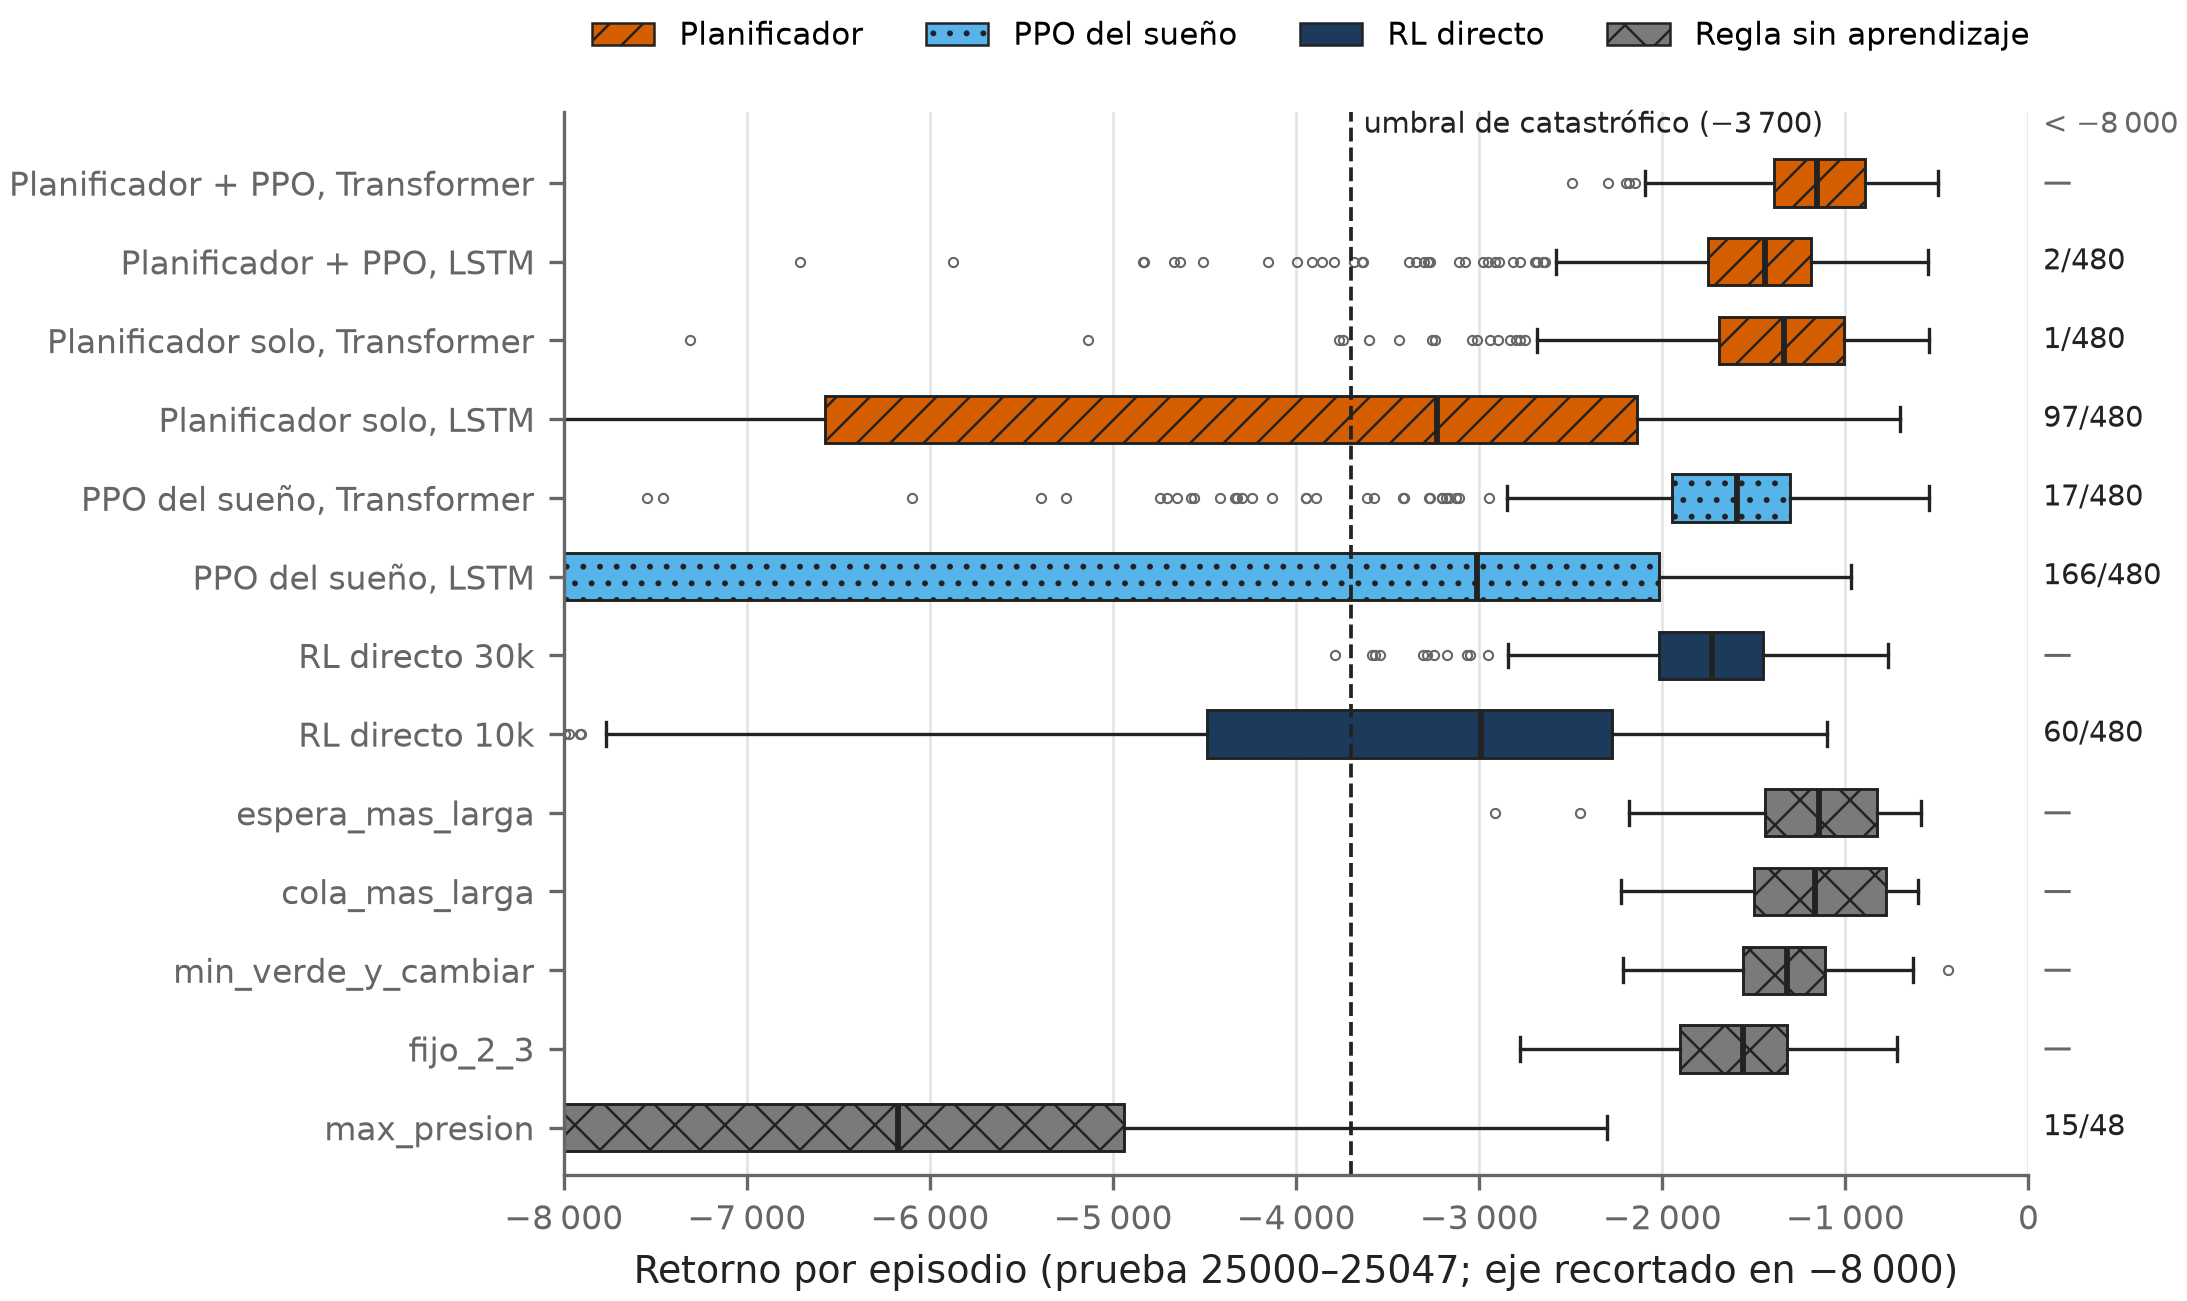
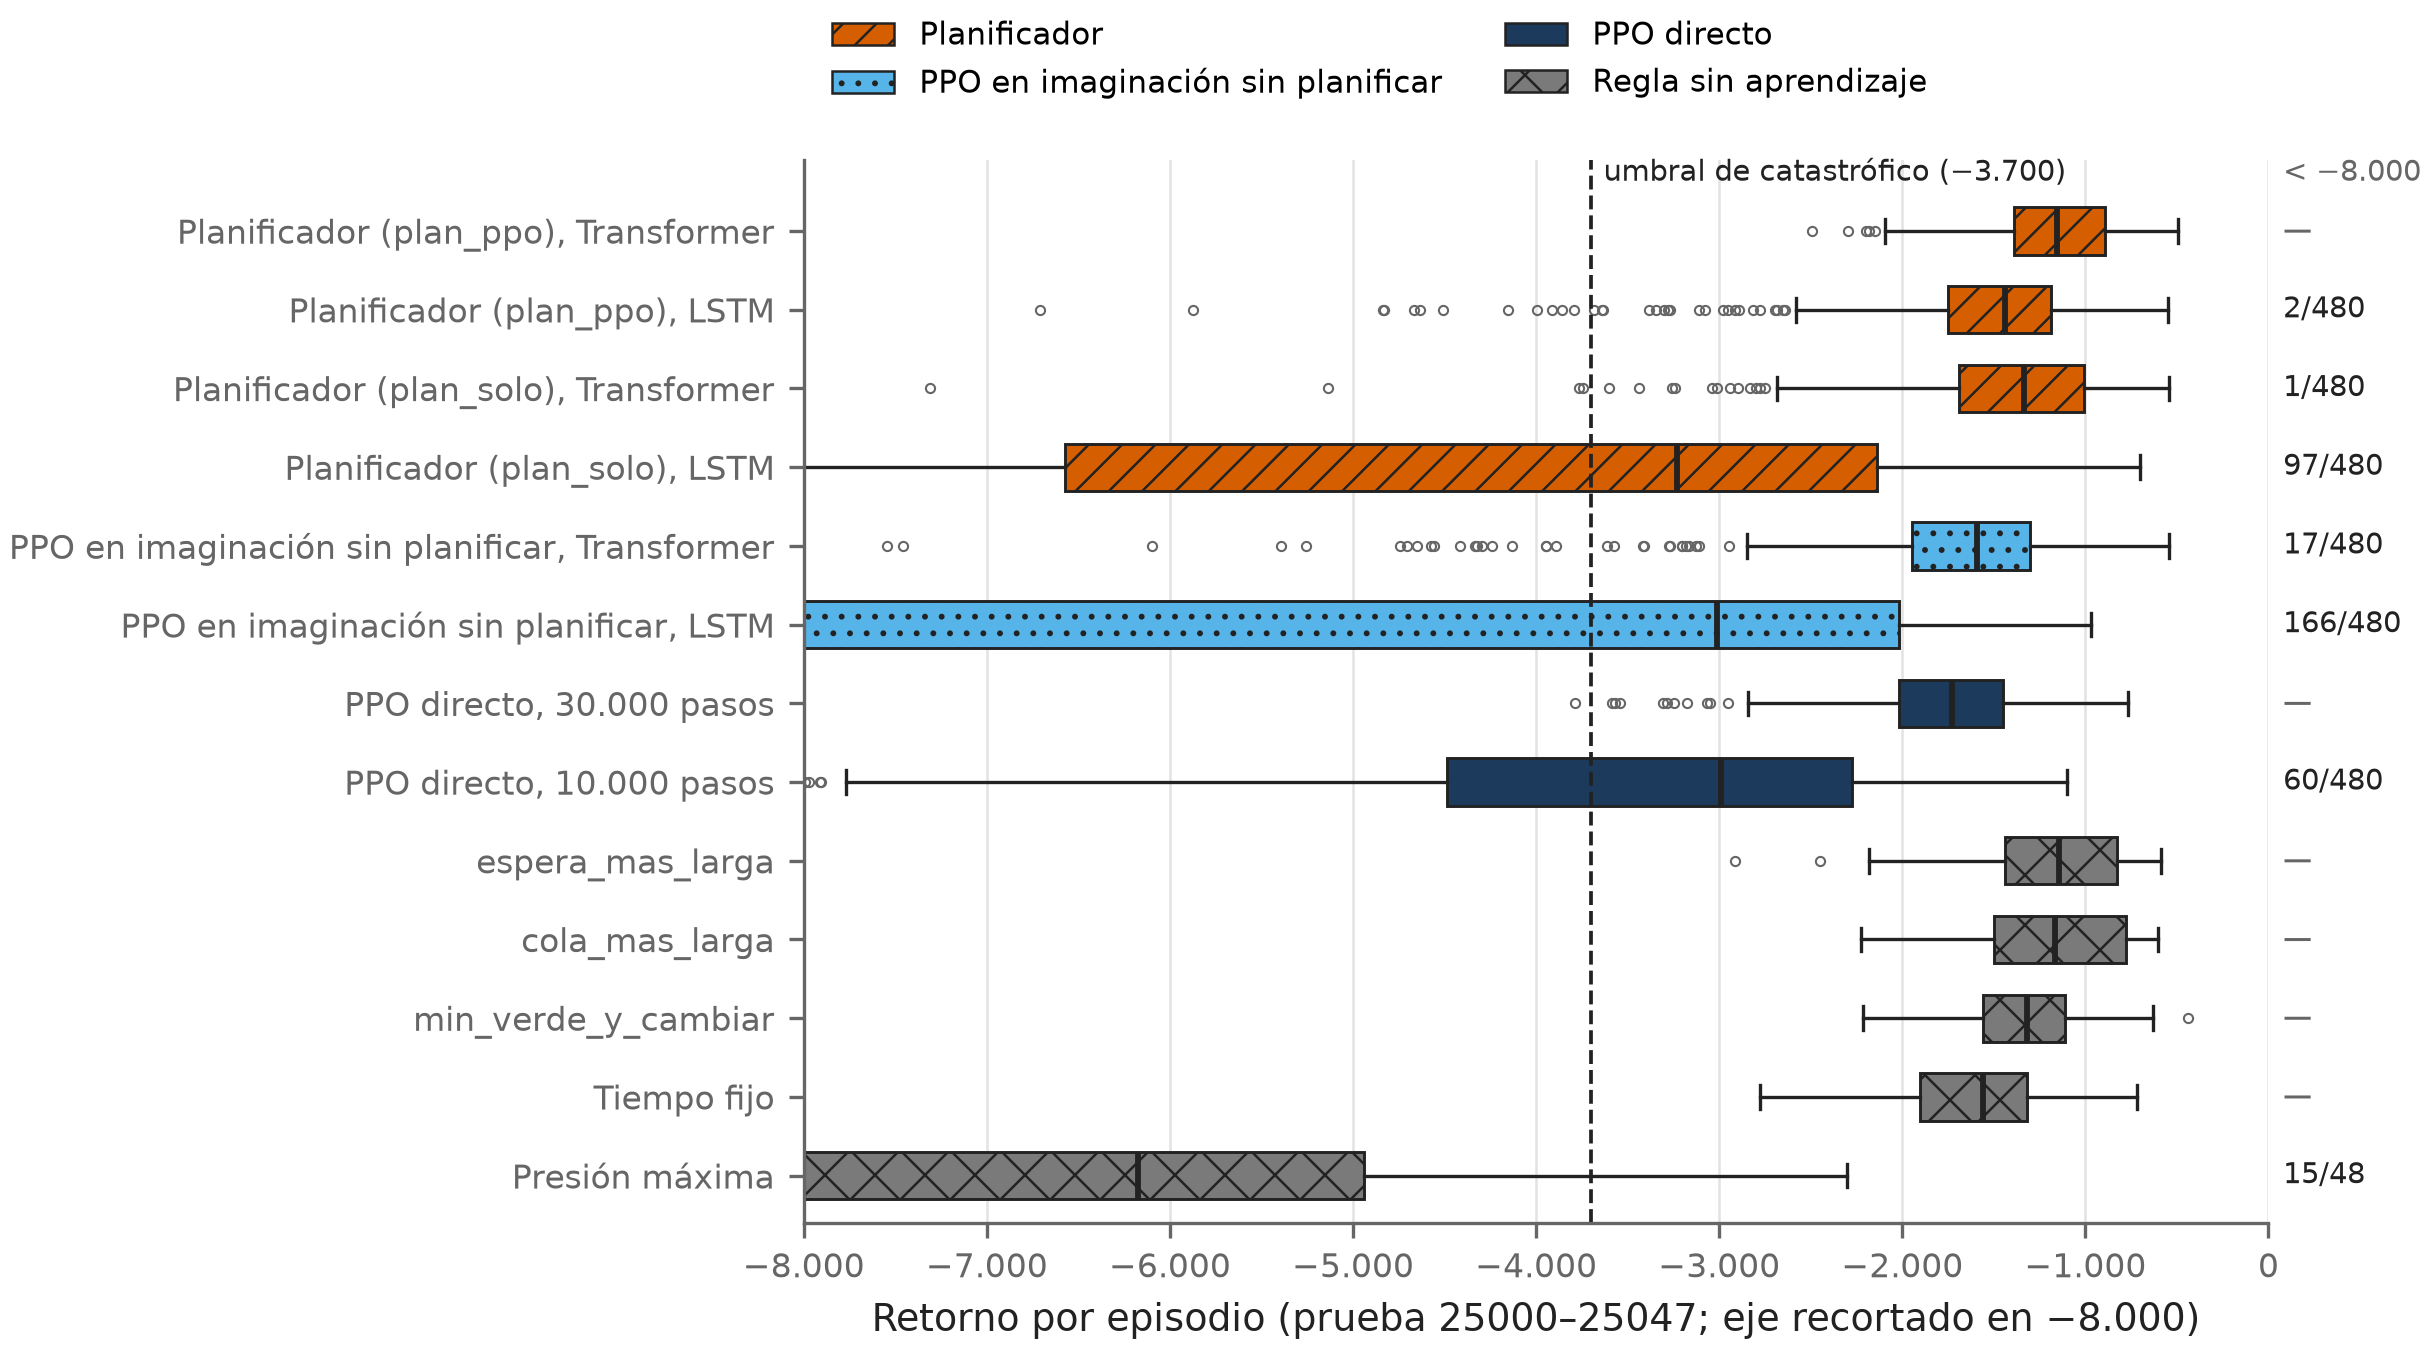
docs(v2): Figura 6 (cajas de la prueba final) con los nombres del artículo y versión en estilo v1
Rótulos unificados con el artículo, punto como separador de miles, y una segunda
versión en el estilo sencillo de la v1 (colores planos, 170 dpi). Nuevo argumento
--only 10 para regenerar solo esta figura; las demás no cambian.

diff --git a/scripts/v2/make_article_figures.py b/scripts/v2/make_article_figures.py
@@ -239,58 +239,80 @@ def test_episodes() -> dict[str, list[dict]]:
     return eps
 
 
-METHODS = [  # nombre, rótulo, familia
-    ("plan_ppo_transformer", "Planificador + PPO, Transformer", "plan"),
-    ("plan_ppo_lstm", "Planificador + PPO, LSTM", "plan"),
-    ("plan_solo_transformer", "Planificador solo, Transformer", "plan"),
-    ("plan_solo_lstm", "Planificador solo, LSTM", "plan"),
-    ("sueno_transformer", "PPO del sueño, Transformer", "sueno"),
-    ("sueno_lstm", "PPO del sueño, LSTM", "sueno"),
-    ("directo_30k", "RL directo 30k", "directo"),
-    ("directo_10k", "RL directo 10k", "directo"),
+METHODS = [  # nombre, rótulo (los nombres del artículo), familia
+    ("plan_ppo_transformer", "Planificador (plan_ppo), Transformer", "plan"),
+    ("plan_ppo_lstm", "Planificador (plan_ppo), LSTM", "plan"),
+    ("plan_solo_transformer", "Planificador (plan_solo), Transformer", "plan"),
+    ("plan_solo_lstm", "Planificador (plan_solo), LSTM", "plan"),
+    ("sueno_transformer", "PPO en imaginación sin planificar, Transformer", "sueno"),
+    ("sueno_lstm", "PPO en imaginación sin planificar, LSTM", "sueno"),
+    ("directo_30k", "PPO directo, 30.000 pasos", "directo"),
+    ("directo_10k", "PPO directo, 10.000 pasos", "directo"),
     ("espera_mas_larga", "espera_mas_larga", "regla"),
     ("cola_mas_larga", "cola_mas_larga", "regla"),
     ("min_verde_y_cambiar", "min_verde_y_cambiar", "regla"),
-    ("fijo_2_3", "fijo_2_3", "regla"),
-    ("max_presion", "max_presion", "regla"),
+    ("fijo_2_3", "Tiempo fijo", "regla"),
+    ("max_presion", "Presión máxima", "regla"),
 ]
-FAMILY = {"plan": (ORANGE, "///", "Planificador"), "sueno": (LIGHT, "...", "PPO del sueño"),
-          "directo": (DARK, "", "RL directo"), "regla": (GRAY, "xx", "Regla sin aprendizaje")}
+FAMILY = {"plan": (ORANGE, "///", "Planificador"), "sueno": (LIGHT, "...", "PPO en imaginación sin planificar"),
+          "directo": (DARK, "", "PPO directo"), "regla": (GRAY, "xx", "Regla sin aprendizaje")}
+# Estilo sencillo de la v1: colores planos, sin tramas (morado para el PPO directo, la cuarta familia).
+FAMILY_V1 = {"plan": "#E67E22", "sueno": "#2E86AB", "directo": "#8E44AD", "regla": "#95A5A6"}
 CLIP = -8000.0
 
 
-def fig10(out: Path, eps) -> Path:
+def fig10(out: Path, eps, style: str = "article") -> Path:
+    """Cajas del retorno por episodio en la prueba final. style: "article" (300 dpi, tramas) o "v1"."""
+    v1 = style == "v1"
+
+    def thousands_dot(x, _pos=None) -> str:  # punto como separador de miles, como en el artículo
+        return f"{x:,.0f}".replace(",", ".").replace("-", "−")
+
     threshold = load("planning/test_analysis.json")["threshold"]
-    fig, ax = plt.subplots(figsize=(6.3, 4.6))
-    n_m = len(METHODS)
-    for i, (name, _lab, fam) in enumerate(METHODS):
-        r = np.array([float(x["reward"]) for x in eps[name]])
-        y = n_m - 1 - i
-        c, hatch, _ = FAMILY[fam]
-        bp = ax.boxplot(r, positions=[y], orientation="horizontal", widths=0.6, patch_artist=True, whis=1.5,
-                        medianprops={"color": INK, "linewidth": 1.4}, whiskerprops={"color": INK, "linewidth": 0.8},
-                        capprops={"color": INK, "linewidth": 0.8},
-                        flierprops={"marker": "o", "ms": 2.2, "mfc": "none", "mec": MUTED, "mew": 0.5})
-        for b in bp["boxes"]:
-            b.set(facecolor=c, edgecolor=INK, linewidth=0.7, hatch=hatch)
-        below = int((r < CLIP).sum())  # columna a la derecha del eje: episodios fuera del recorte
-        ax.annotate(f"{below}/{len(r)}" if below else "—", (1.01, y), xycoords=("axes fraction", "data"),
-                    va="center", ha="left", fontsize=7, color=INK if below else MUTED)
-    ax.axvline(threshold, color=INK, linestyle="--", linewidth=0.9)
-    ax.annotate(f"umbral de catastrófico ({thousands(threshold)})", (threshold, n_m - 0.45), xytext=(3, 0),
-                textcoords="offset points", fontsize=7, color=INK, va="bottom")
-    ax.annotate(f"< {thousands(CLIP)}", (1.01, n_m - 0.45), xycoords=("axes fraction", "data"),
-                va="bottom", ha="left", fontsize=7, color=MUTED)
-    ax.set_yticks(range(n_m), [lab for _n, lab, _f in reversed(METHODS)])
-    ax.set_xlim(CLIP, 0)
-    ax.set_ylim(-0.6, n_m - 0.1)
-    ax.xaxis.set_major_formatter(thousands)
-    ax.set_xlabel(f"Retorno por episodio (prueba 25000–25047; eje recortado en {thousands(CLIP)})")
-    ax.grid(axis="y", visible=False)
-    handles = [matplotlib.patches.Patch(facecolor=c, hatch=h, edgecolor=INK, linewidth=0.6, label=lab)
-               for c, h, lab in FAMILY.values()]
-    ax.legend(handles=handles, loc="lower left", bbox_to_anchor=(0.0, 1.03), ncol=4, fontsize=7.5)
-    return save(fig, out, "fig10_cajas_prueba_final.png")
+    rc = {"axes.spines.top": True, "axes.spines.right": True, "axes.edgecolor": "black",
+          "xtick.color": "black", "ytick.color": "black", "grid.color": "#B0B0B0", "grid.alpha": 0.25,
+          "grid.linewidth": 0.8} if v1 else {}
+    with plt.rc_context(rc):
+        fig, ax = plt.subplots(figsize=(6.3, 4.6))
+        n_m = len(METHODS)
+        for i, (name, _lab, fam) in enumerate(METHODS):
+            r = np.array([float(x["reward"]) for x in eps[name]])
+            y = n_m - 1 - i
+            c, hatch, _ = FAMILY[fam]
+            if v1:
+                c, hatch = FAMILY_V1[fam], ""
+            bp = ax.boxplot(r, positions=[y], orientation="horizontal", widths=0.6, patch_artist=True, whis=1.5,
+                            medianprops={"color": INK, "linewidth": 1.4},
+                            whiskerprops={"color": INK, "linewidth": 0.8}, capprops={"color": INK, "linewidth": 0.8},
+                            flierprops={"marker": "o", "ms": 2.2, "mfc": "none", "mec": MUTED, "mew": 0.5})
+            for b in bp["boxes"]:
+                b.set(facecolor=c, edgecolor=INK, linewidth=0.7, hatch=hatch)
+            below = int((r < CLIP).sum())  # columna a la derecha del eje: episodios fuera del recorte
+            ax.annotate(f"{below}/{len(r)}" if below else "—", (1.01, y), xycoords=("axes fraction", "data"),
+                        va="center", ha="left", fontsize=7, color=INK if below else MUTED)
+        ax.axvline(threshold, color=INK, linestyle="--", linewidth=0.9)
+        ax.annotate(f"umbral de catastrófico ({thousands_dot(threshold)})", (threshold, n_m - 0.45),
+                    xytext=(3, 0), textcoords="offset points", fontsize=7, color=INK, va="bottom")
+        ax.annotate(f"< {thousands_dot(CLIP)}", (1.01, n_m - 0.45), xycoords=("axes fraction", "data"),
+                    va="bottom", ha="left", fontsize=7, color=MUTED)
+        ax.set_yticks(range(n_m), [lab for _n, lab, _f in reversed(METHODS)])
+        ax.set_xlim(CLIP, 0)
+        ax.set_ylim(-0.6, n_m + 0.25 if v1 else n_m - 0.1)  # en la v1 hay borde arriba: espacio para el umbral
+        ax.xaxis.set_major_formatter(thousands_dot)
+        ax.set_xlabel(f"Retorno por episodio (prueba 25000–25047; eje recortado en {thousands_dot(CLIP)})")
+        if v1:
+            ax.grid(True)
+        ax.grid(axis="y", visible=False)
+        handles = [matplotlib.patches.Patch(facecolor=FAMILY_V1[k] if v1 else c, hatch="" if v1 else h,
+                                            edgecolor=INK, linewidth=0.6, label=lab)
+                   for k, (c, h, lab) in FAMILY.items()]
+        ax.legend(handles=handles, loc="lower left", bbox_to_anchor=(0.0, 1.03), ncol=2, fontsize=7.5)
+        if v1:
+            path = out / "fig10_cajas_prueba_final_v1.png"
+            fig.savefig(path, dpi=170)
+            plt.close(fig)
+            return path
+        return save(fig, out, "fig10_cajas_prueba_final.png")
 
 
 def fig11(out: Path, eps) -> Path:
@@ -327,11 +349,18 @@ def fig11(out: Path, eps) -> Path:
 def main() -> None:
     parser = argparse.ArgumentParser(description=__doc__.splitlines()[0])
     parser.add_argument("--out", type=Path, default=ROOT / "docs" / "figures_v2")
+    parser.add_argument("--only", type=int, choices=[10], help="regenera solo esa figura (10: sus dos estilos)")
     args = parser.parse_args()
     args.out.mkdir(parents=True, exist_ok=True)
     eps = test_episodes()
-    for path in (fig5(args.out), fig6(args.out), fig7(args.out), fig8(args.out), fig9(args.out),
-                 fig10(args.out, eps), fig11(args.out, eps)):
+    if args.only == 10:
+        makers = (lambda: fig10(args.out, eps), lambda: fig10(args.out, eps, style="v1"))
+    else:
+        makers = (lambda: fig5(args.out), lambda: fig6(args.out), lambda: fig7(args.out), lambda: fig8(args.out),
+                  lambda: fig9(args.out), lambda: fig10(args.out, eps), lambda: fig10(args.out, eps, style="v1"),
+                  lambda: fig11(args.out, eps))
+    for make in makers:
+        path = make()
         print(path.relative_to(ROOT) if path.is_relative_to(ROOT) else path)
 
 
